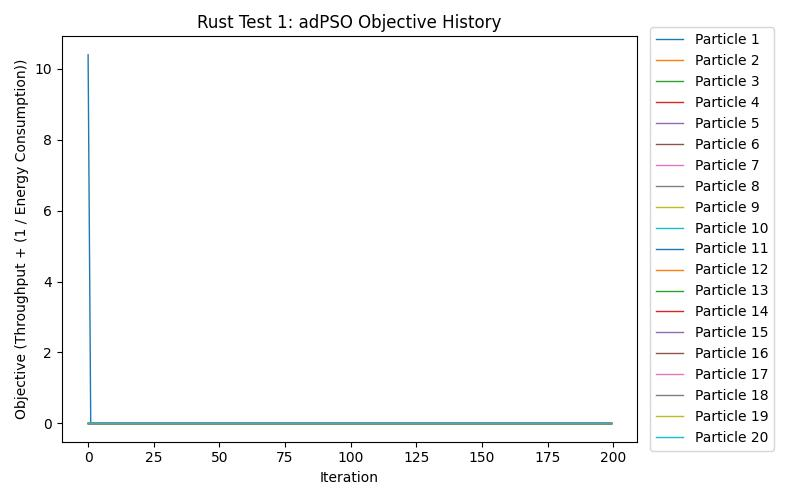
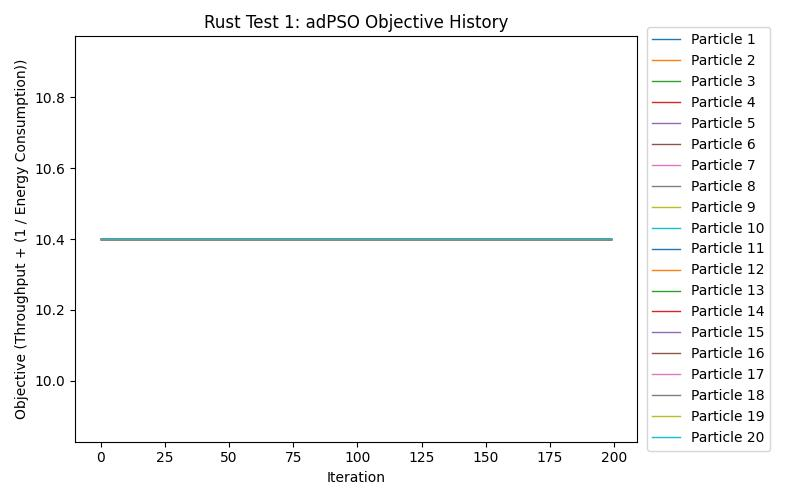
dynamic test running with rust

diff --git a/psoscheduler-rust/src/pso/particle.rs b/psoscheduler-rust/src/pso/particle.rs
@@ -66,24 +66,26 @@ impl Particle {
   pub fn run_iteration(&mut self, workload: &Workload, data_center: &mut DataCenter, w: f32, global_best_position: &Array2<f32>) -> u8 {
     let mut start = Instant::now();
     self.update_velocity(w, global_best_position);
-    println!("Update Velocity: {:?}", start.elapsed());
+    //println!("Update Velocity: {:?}", start.elapsed());
     start = Instant::now();
     self.update_position();
-    println!("Update Position: {:?}", start.elapsed());
+    //println!("Update Position: {:?}", start.elapsed());
 
     start = Instant::now();
     self.update_data_center(workload, data_center);
-    println!("Update Data Center: {:?}", start.elapsed());
+    //println!("Update Data Center: {:?}", start.elapsed());
     start = Instant::now();
     let objective: f32 = data_center.compute_objective();
-    self.objective_history.push(objective);
-    println!("Compute Object + Push: {:?}", start.elapsed());
+    //println!("Compute Object + Push: {:?}", start.elapsed());
 
     if objective > self.personal_best_objective {
       self.personal_best_objective = objective;
       self.personal_best_position = self.position.clone();
+      self.objective_history.push(objective);
       return 1;
     }
+
+    self.objective_history.push(self.personal_best_objective);
 
     return 0;
   }
@@ -110,22 +112,22 @@ impl Particle {
     let mut start = Instant::now();
     let r1: f32 = utilities::get_random_float(0., 1.);
     let r2: f32 = utilities::get_random_float(0., 1.);
-    println!("\tRandomize r1, r2: {:?}", start.elapsed());
+    //println!("\tRandomize r1, r2: {:?}", start.elapsed());
 
     start = Instant::now();
     self.velocity.mapv_inplace(|a| a * w);
-    println!("\tScale Velocity: {:?}", start.elapsed());
+    //println!("\tScale Velocity: {:?}", start.elapsed());
     start = Instant::now();
     let local_exploration: Array2<f32> = (&self.personal_best_position - &self.position)
                                           .mapv(|a| a * Particle::C1 * r1);
-    println!("\tLocal Exploration: {:?}", start.elapsed());
+    //println!("\tLocal Exploration: {:?}", start.elapsed());
     start = Instant::now();
     let global_exploration: Array2<f32> = (global_best_position - &self.position)
                                           .mapv(|a| a * Particle::C2 * r2);
-    println!("\tGlobal Exploration: {:?}", start.elapsed());
+    //println!("\tGlobal Exploration: {:?}", start.elapsed());
     start = Instant::now();
     self.velocity += &(local_exploration + &global_exploration);
-    println!("\tAdd: {:?}", start.elapsed());
+    //println!("\tAdd: {:?}", start.elapsed());
     start = Instant::now();
     self.velocity.mapv_inplace(|a| -> f32 {
       if a.abs() > Particle::MAX_ABS_VELOCITY {
@@ -133,7 +135,7 @@ impl Particle {
       }
       return a;
     });
-    println!("\tEnforce Boundary: {:?}", start.elapsed());
+    //println!("\tEnforce Boundary: {:?}", start.elapsed());
   }
 
   fn update_position(&mut self) {

diff --git a/psoscheduler-rust/src/main.rs b/psoscheduler-rust/src/main.rs
@@ -2,18 +2,28 @@ use std::env;
 use psoscheduler;
 
 fn main() {
-  env::set_var("RUST_BACKTRACE", "1");
-  log_basic_pso();
-}
+  // env::set_var("RUST_BACKTRACE", "1");
 
-fn log_basic_pso() {
-  let workload: psoscheduler::simulation::workload::Workload = psoscheduler::build_test1_workload();
-  let data_center: psoscheduler::simulation::data_center::DataCenter = psoscheduler::build_test1_data_center();
+  let args: Vec<String> = env::args().collect();
+
+  let testID = args[1].clone();
+
+  let workload = match testID.as_str() {
+    "1" => psoscheduler::build_test1_workload(),
+    "2" => psoscheduler::build_test2_workload(),
+    _ => panic!("Test {} is not implemented", testID),
+  };
+
+  let data_center = match testID.as_str() {
+    "1" => psoscheduler::build_test1_data_center(),
+    "2" => psoscheduler::build_test2_data_center(),
+    _ => panic!("Test {} is not implemented", testID),
+  };
+
   let mut swarm = psoscheduler::pso::pso_swarm::PSOSwarm::new(workload, data_center);
   swarm.run_pso_algorithm();
   println!("Global Best Objective: {:?}", swarm.global_best_objective);
   println!("Final Mapping: {:?}", swarm.global_best_task_vm_mapping);
   // Save the cost history to local file
   psoscheduler::utils::utilities::write_objective_history_to_csv(&swarm.get_particle_objective_history(), "./output_data/objective_history.csv");
-
 }

diff --git a/psoscheduler-rust/src/lib.rs b/psoscheduler-rust/src/lib.rs
@@ -41,6 +41,23 @@ pub fn build_test1_workload() -> simulation::workload::Workload {
   workload
 }
 
+pub fn build_test2_data_center() -> simulation::data_center::DataCenter {
+  let mut data_center = simulation::data_center::DataCenter::new();
+
+  let vm1 = simulation::virtual_machine::VirtualMachine::new(50, 500.);
+  let vm2 = simulation::virtual_machine::VirtualMachine::new(100, 500.);
+  data_center.add_virtual_machine(vm1);
+  data_center.add_virtual_machine(vm2);
+
+  simulation::virtual_machine::VIRTUAL_MACHINE_ID_COUNTER.store(0, Ordering::Relaxed);
+
+  data_center
+}
+
+pub fn build_test2_workload() -> simulation::workload::Workload {
+  build_test1_workload()
+}
+
 pub fn build_test11_data_center() -> simulation::data_center::DataCenter {
   let n_vms: usize = 100;
   let vm_mips_low: usize = 1000;

diff --git a/psoscheduler-rust/src/pso/pso_swarm.rs b/psoscheduler-rust/src/pso/pso_swarm.rs
@@ -23,8 +23,8 @@ impl PSOSwarm {
   const W2: f32 = 0.4;
 
   pub fn new(mut workload: Workload, mut data_center: DataCenter) -> PSOSwarm {
-    let max_iterations: u32 = 1;
-    let n_particles: u32 = 1;
+    let max_iterations: u32 = 200;
+    let n_particles: u32 = 20;
     let p_s: f32 = 1.;
     let w: f32 = 0.;
 
@@ -56,7 +56,6 @@ impl PSOSwarm {
 
   pub fn run_pso_algorithm(&mut self) {
     for iteration in 0..self.max_iterations {
-      println!("{}", iteration);
       self.run_iteration(iteration);
     }
 

diff --git a/psoscheduler-java/src/main/java/syslab/cloudcomputing/pso/Particle.java b/psoscheduler-java/src/main/java/syslab/cloudcomputing/pso/Particle.java
@@ -76,13 +76,14 @@ public class Particle {
     this.updateDataCenter();
     double objective = this.dataCenter.computeObjective();
 
-    this.objectiveHistory.add(this.personalBestObjectiveValue);
-
     if (objective > this.personalBestObjectiveValue) {
       this.personalBestPosition = this.position.copy();
       this.personalBestObjectiveValue = objective;
+      this.objectiveHistory.add(objective);
       return 1;
     }
+
+    this.objectiveHistory.add(this.personalBestObjectiveValue);
 
     return 0;
   }
